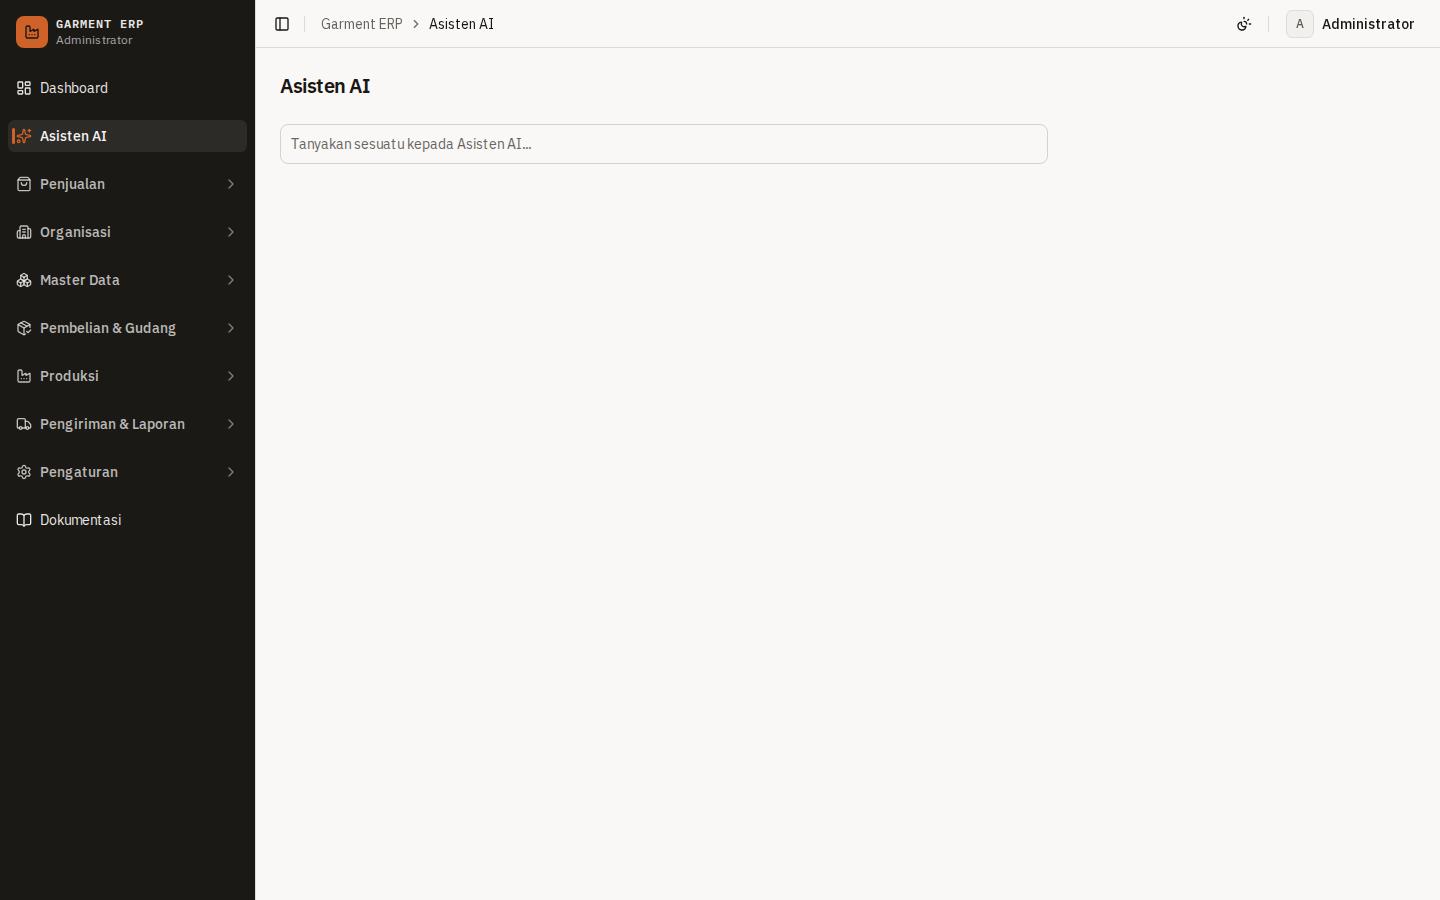
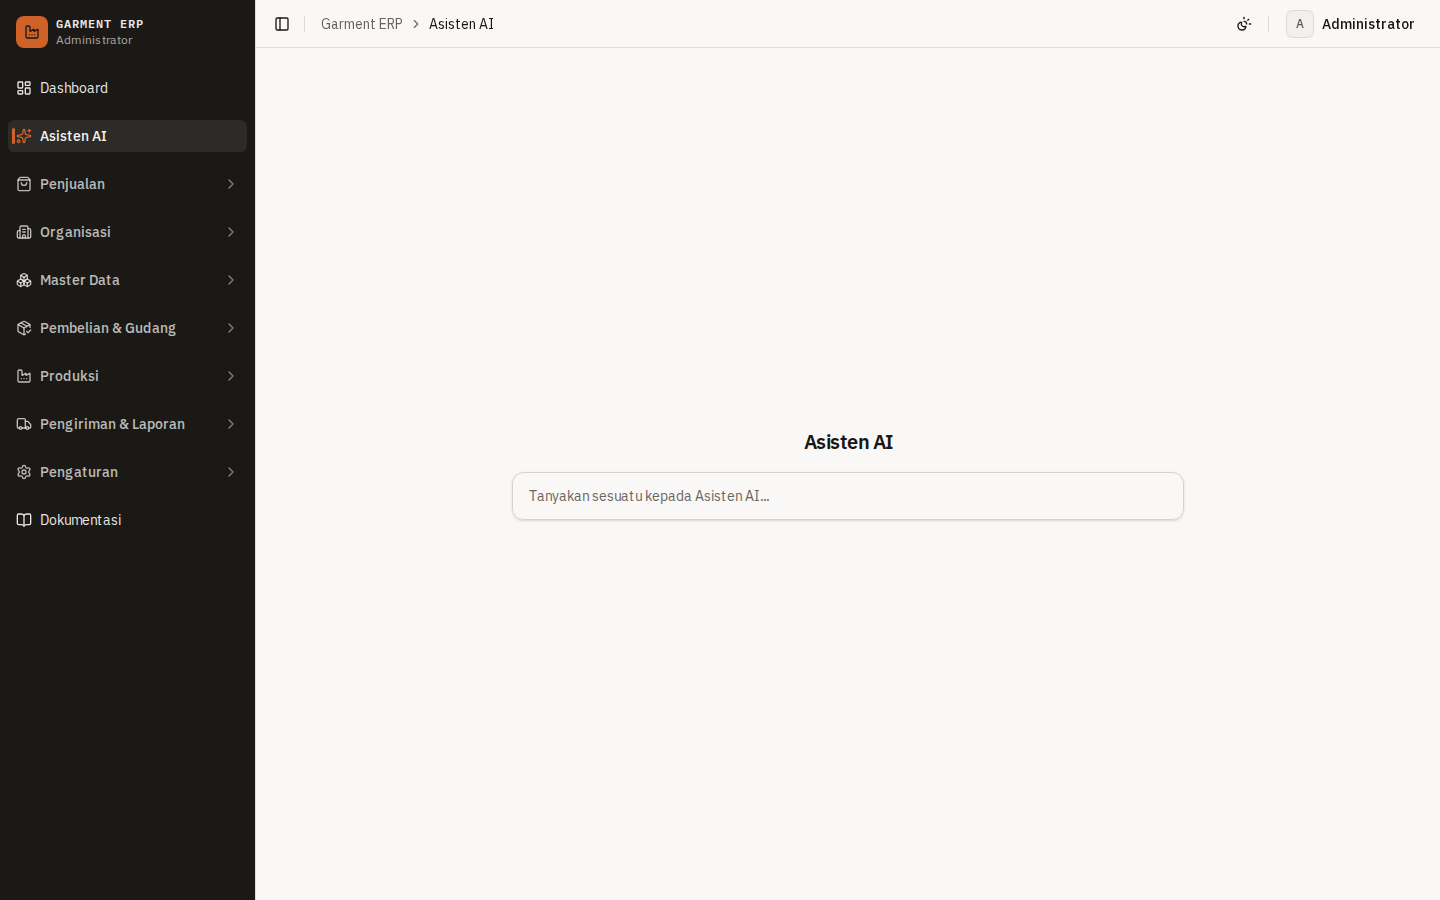
style: pusatkan tampilan Asisten AI
Tampilkan judul dan input di tengah area konten seperti halaman awal asisten chat.

diff --git a/src/app/(dashboard)/asisten-ai/page.tsx b/src/app/(dashboard)/asisten-ai/page.tsx
@@ -1,21 +1,22 @@
 import type { Metadata } from "next";
-import { PageHeader } from "@/components/layout/page-header";
 import { Input } from "@/components/ui/input";
 
 export const metadata: Metadata = { title: "Asisten AI" };
 
 export default function AsistenAiPage() {
   return (
-    <div className="flex flex-col gap-6">
-      <PageHeader title="Asisten AI" />
-      <Input
-        type="text"
-        name="question"
-        aria-label="Pertanyaan untuk Asisten AI"
-        placeholder="Tanyakan sesuatu kepada Asisten AI..."
-        autoComplete="off"
-        className="h-10 w-full max-w-3xl text-sm"
-      />
+    <div className="flex flex-1 flex-col items-center justify-center">
+      <div className="flex w-full max-w-2xl flex-col items-center gap-4">
+        <h1 className="text-xl font-semibold tracking-tight">Asisten AI</h1>
+        <Input
+          type="text"
+          name="question"
+          aria-label="Pertanyaan untuk Asisten AI"
+          placeholder="Tanyakan sesuatu kepada Asisten AI..."
+          autoComplete="off"
+          className="h-12 w-full rounded-xl px-4 text-base shadow-sm"
+        />
+      </div>
     </div>
   );
 }
